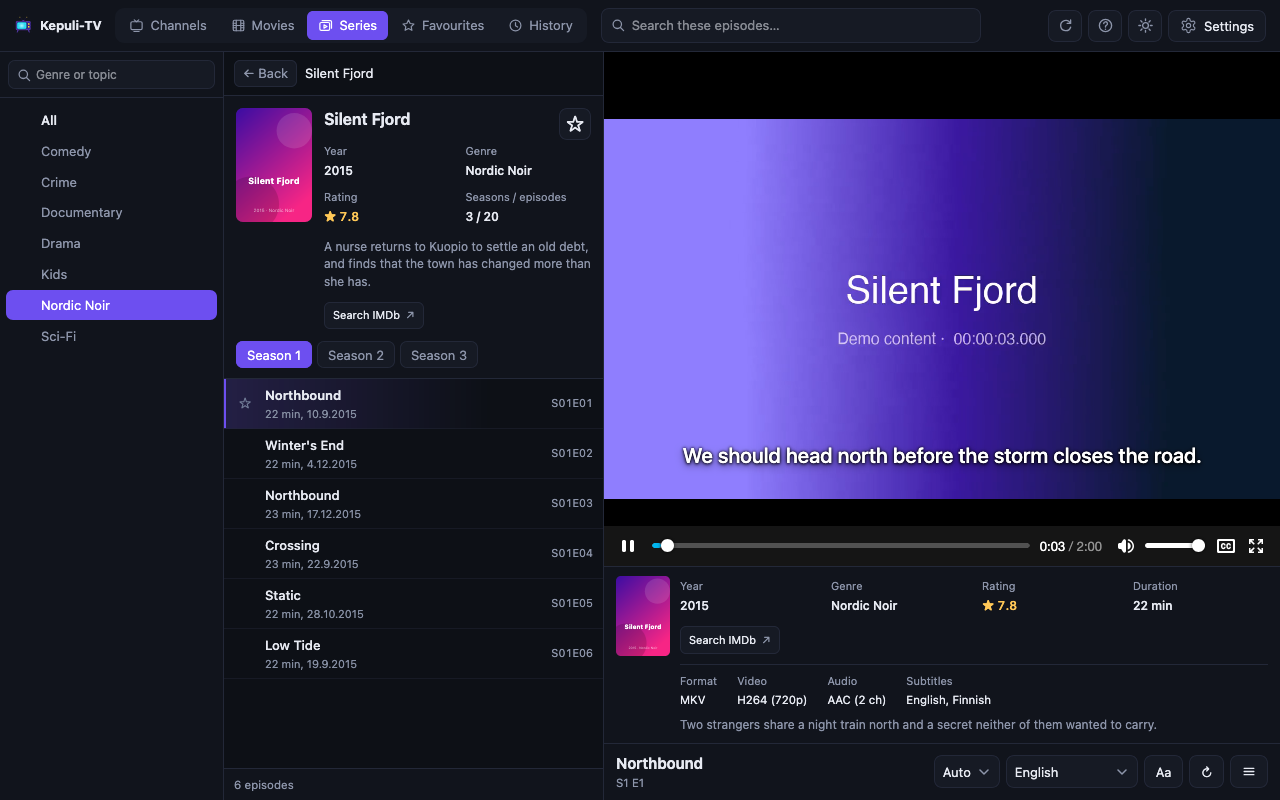
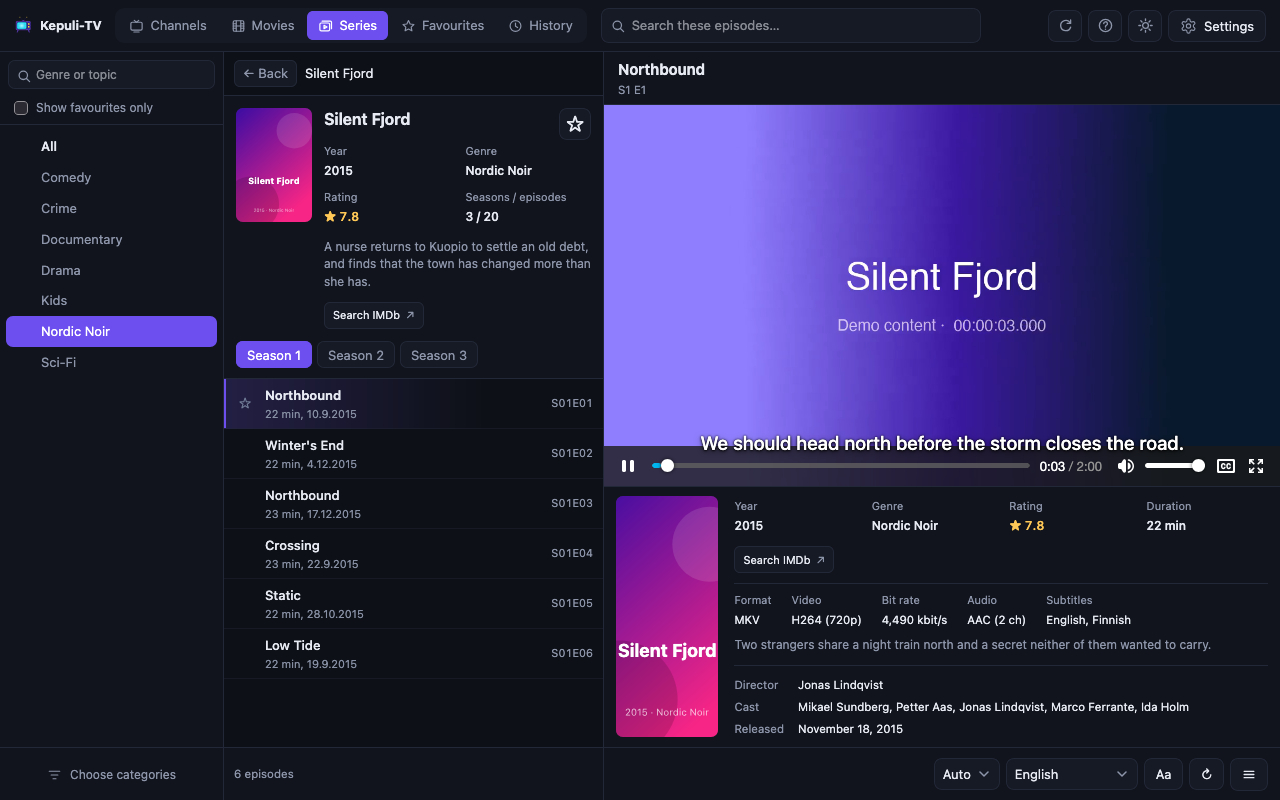
Both stores' screenshots retaken for 1.6.3, and the Chrome dashboard's descriptions recorded as 1.6.3's
The player's title above the picture, the fuller details and the
"Show favourites only" and categories controls now show in all five
views. The Chrome set is in the dashboard and 1.6.3 is submitted with it;
the Firefox set replaces AMO's previews.

Claude-Session: https://claude.ai/code/session_011jsMnvrRFhUGx9tiavzMEY

diff --git a/brand/firefox-screenshots/README.md b/brand/firefox-screenshots/README.md
@@ -2,7 +2,7 @@
 
 Captured by `KEPULI_BROWSER=firefox node dev/store-screenshots.mjs` — the
 same walk that makes the Chrome set, driven through Marionette instead of
-DevTools — in Firefox 157 on macOS, using an isolated test profile and the
+DevTools — in Firefox 159 on macOS, using an isolated test profile and the
 local `dev/mock/server.mjs` fixture. All channels, titles, artwork and video
 are fictional demo content. No customer account or hosted demo service was
 used.
